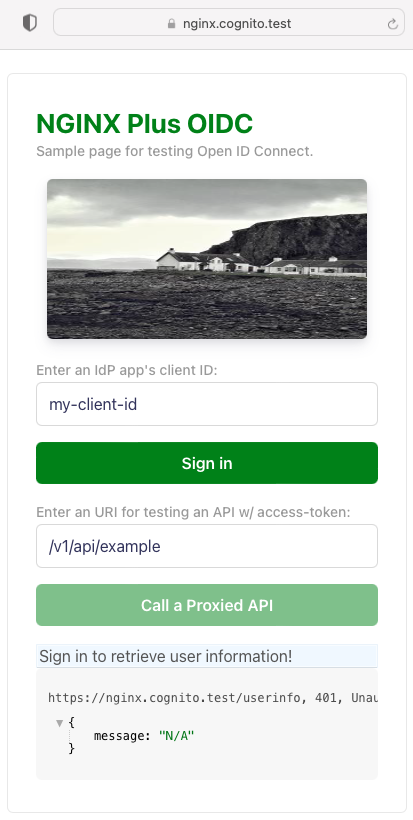
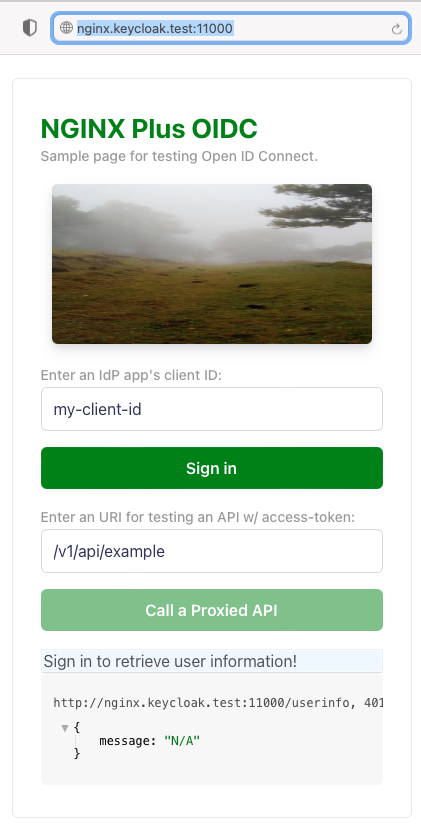
feat: Keycloak Test using FE Simulation Tool

diff --git a/docs/03-Container-Test.md b/docs/03-Container-Test.md
@@ -1,6 +1,6 @@
-# How To Locally Test Containerized NGINX Plus OIDC for Amazon Cognito Integration
+# How To Locally Test Containerized NGINX Plus OIDC for Keycloak Integration
 
-Take the following steps to run NGINX Plus in a Docker container and test OIDC for Amazon Cognito integration.
+Take the following steps to run NGINX Plus in a Docker container and test OIDC for Keycloak integration.
 
 > Note: You could remotely test in your remote machine if you copy entire files there.
 
@@ -11,7 +11,8 @@ Take the following steps to run NGINX Plus in a Docker container and test OIDC f
 
   ```bash
   $ sudo vi /etc/hosts
-  127.0.0.1 nginx.cognito.test
+  127.0.0.1 nginx.keycloak.test
+  127.0.0.1 host.docker.internal
   ```
 
 - [Download NGINX Plus license files](https://www.nginx.com/free-trial-request/), and copy them to `./docker/build-context/ssl/`
@@ -39,15 +40,15 @@ Take the following steps to run NGINX Plus in a Docker container and test OIDC f
 
 ## 3. Run a Browser and Test OIDC
 
-- **Run** a Web Browser with `https://nginx.cognito.test`, and enter an `IdP application`'s `client ID`:
+- **Run** a Web Browser with `http://nginx.keycloak.test:11000`, and enter an `IdP application`'s `client ID`:
 
   ![](./img/run-browser.png)
 
 - **Login** to click `Sign in` button:
 
-  Enter your name and password which are registered in Amazon Cognito.
+  Enter your name and password which are registered in Keycloak.
 
-  ![](./img/login-cognito.png)
+  ![](./img/login-keycloak.png)
 
   You will see the following screen once you are successfully signed-in.
 
